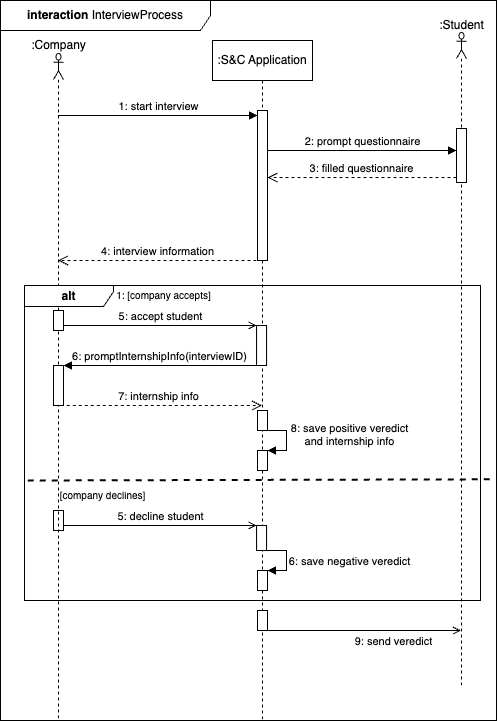
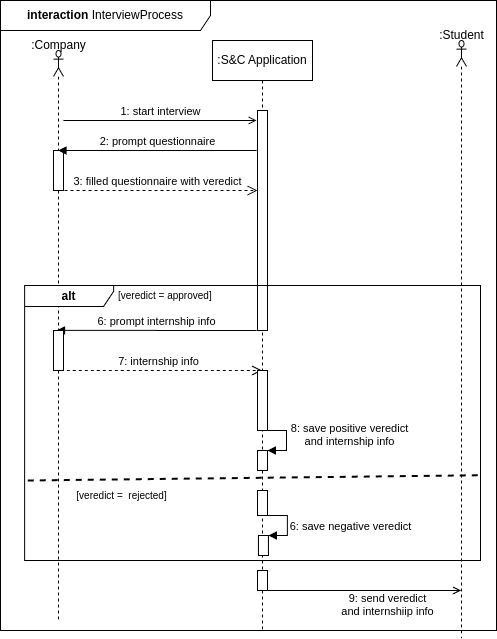
RASD - Version 2.0

diff --git a/RASD/Files/requirements.tex b/RASD/Files/requirements.tex
@@ -21,7 +21,7 @@ The platform must be HTTPS compliant to ensure secure communication between user
 \item[] \textbf{Sign-Up, Login, and Profile Management}
 
 
-\item The system should provide authentication so that each action can be correctly associated with a user
+\item The system should provide authentication so that each action can be correctly associated with an user
 
 
 \item When a student registers the system generates a profile containing their experience, skills, and education
@@ -392,14 +392,12 @@ The platform must be HTTPS compliant to ensure secure communication between user
 \begin{tabularx}{\textwidth}{|X|X|}
 \hline
 \textbf{Actors}           & user                                                       \\ \hline
-\textbf{Entry Condition}   & There’s a completed internship involving the user. The user is correctly registered. \\ \hline
-\textbf{Event Flow}        & 1. User clicks on “Give Feedback” on the email notification he/she received about a completed internship \\
-                           & 2. The user is redirected to the S\&C web-app \\
-                           & 3. Included Use Case: user login \\
-                           & 4. S\&C displays a form prompting the user to provide feedback (Included Use Case: form filling) \\
-                           & 5. The user provides ratings and comments about the internship experience \\
-                           & 6. S\&C saves the feedback in its internal database and updates the internship status accordingly. \\
-                           & 7. S\&C sends a notification to the company, notifying them that feedback has been submitted. \\ \hline
+\textbf{Entry Condition}   & There’s a completed internship involving the user. The user is correctly registered and logged-in. \\ \hline
+\textbf{Event Flow}        & 1. The user is navigating on the ``Closed Internships'' page \\
+                           & 2. S\&C displays a form prompting the user to provide feedback (Included Use Case: form filling) \\
+                           & 3. The user provides ratings and comments about the internship experience \\
+                           & 4. S\&C saves the feedback in its internal database and updates the internship status accordingly. \\
+                           & 5. S\&C sends a notification to the company, notifying them that feedback has been submitted. \\ \hline
 \textbf{Exit Condition}    & The internship feedback is saved and the status is updated. Both the user and the company have been notified. \\ \hline
 \textbf{Exceptions}        & If the user doesn’t submit feedback, the process remains pending. S\&C sends a reminder notification to the user to provide feedback within a set time frame (e.g., 3 days). \\ \hline
 \end{tabularx}

diff --git a/RASD/Files/introduction.tex b/RASD/Files/introduction.tex
@@ -70,6 +70,13 @@ The platform facilitates a two-way interaction: students receive recommendations
 \end{enumerate}
 \subsection{Definitions, Acronyms, Abbreviations}
 \subsection{Revision history}
+Version 1.0 (21/12/2024)
+Version 1.1 (22/12/2024): added explanation text to the domain class diagram and to the sequence diagrams
+Version 2.0 (30/12/2024): following decisions consequent to the design document
+\begin{enumerate}
+    \item UC11 sequence diagram: Previously, it stated that the student filled the interview questionnaire with their answers. This is incorrect, as we believe the most accurate process would involve the company employee asking the questions to the student and then filling the questionnaire having processed the student's answers (it might involve repeating or explaining questions).
+    \item UC7: Previously it started with the user clicking a link on an email notification. While working on the Design Document, we realized there are many ways in which a user can arrive at the ``Closed Internships'' page, not only email notifications.
+\end{enumerate}
 \subsection{Reference Documents}
 This document is based on the following materials
 \begin{itemize}
